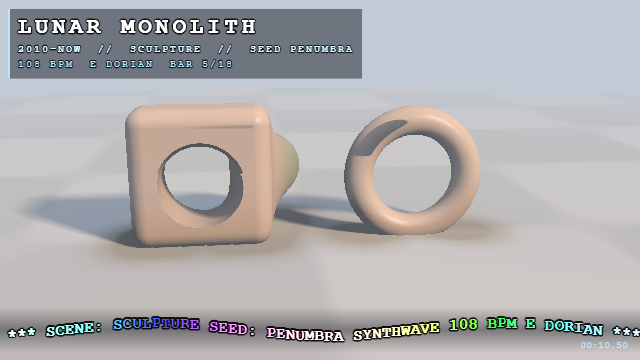
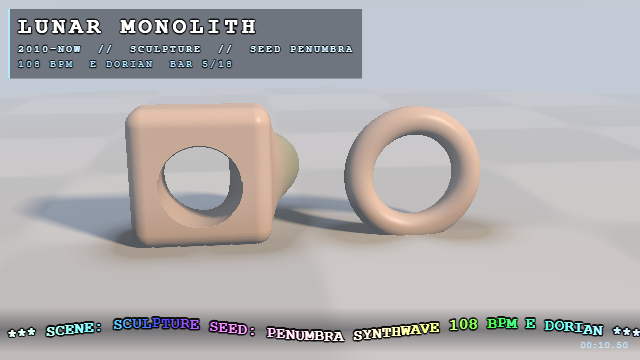
Fix sculpture ray-marching overshoot
Limit ray steps to the sampled distance to prevent overshooting faces and creating false shadows. Update the sculpture gallery image.

Changed region(s): [[0.5312, 0.3361, 0.6562, 0.4278], [0.25, 0.3972, 0.375, 0.4583], [0.3438, 0.3361, 0.4062, 0.3667]]

diff --git a/src/styles/index.js b/src/styles/index.js
@@ -2605,7 +2605,7 @@ vec3 render(vec2 p, vec2 uv) {
     if (q.y > 2.6 && rd.y > 0.0) { t = 20.0; break; }
     h = scMap(q);
     if (h.x < 0.0015 * t || t > 18.0) break;
-    t += h.x * 1.05;
+    t += h.x;   // (never longer than the distance: a ray meeting a face head-on would land inside it, and read as shadowed)
   }
   if (t < 18.0) {
     vec3 pos = ro + rd * t, n = scNormal(pos);
